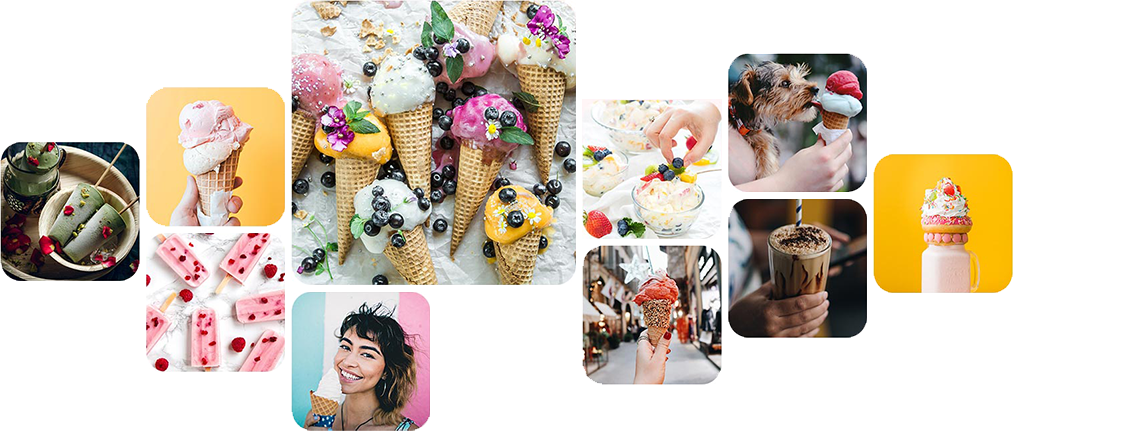
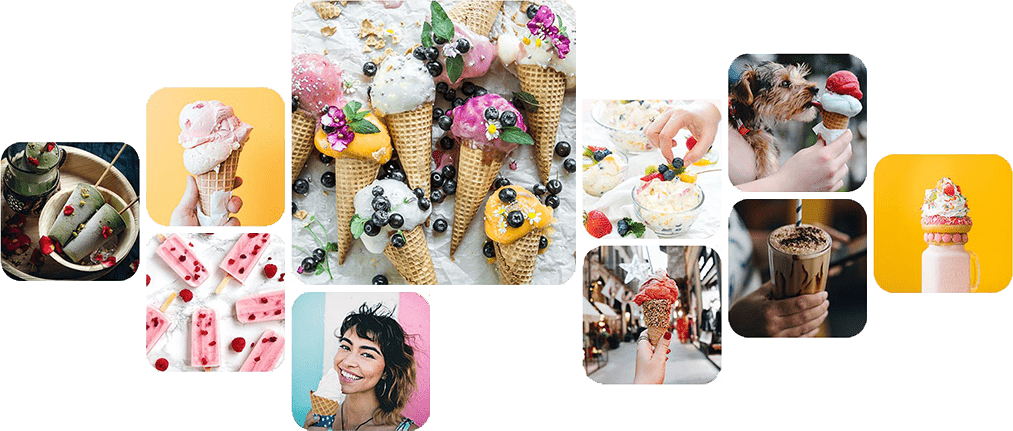
first end reviews

diff --git a/build/css/styles.css b/build/css/styles.css
@@ -388,18 +388,16 @@ img {
   min-width: 320px;
   margin: 0 auto; }
 
-/* Components */
+.collage {
+  margin-bottom: 195px; }
+  .collage__img {
+    display: block;
+    width: 80%;
+    object-fit: cover;
+    margin: 0 auto; }
+
 .reviews {
   text-align: center; }
-  .reviews::before {
-    content: '';
-    display: block;
-    width: 81.25%;
-    min-height: 110px;
-    max-height: 430px;
-    background: url(../images/reviews/collage.png) no-repeat;
-    background-size: cover;
-    margin: 0 auto 194px; }
   .reviews__blog {
     width: 78.125%;
     margin: 0 auto 20px;
@@ -410,7 +408,7 @@ img {
       margin: 0 auto;
       padding: 52px 0 33px; }
       .reviews__blog-box-text {
-        font: 500 13px DMSans, sans-serif;
+        font: 500 0.76em DMSans, sans-serif;
         color: #000000;
         line-height: 2.385;
         border-bottom: 1px solid #e1e1e1;
@@ -461,7 +459,7 @@ img {
 .reviews__title {
   margin: 0 auto 32px; }
   .reviews__title-text {
-    font: 400 13px DMSans, sans-serif;
+    font: 400 0.76em DMSans, sans-serif;
     color: #000000;
     text-transform: capitalize;
     margin-bottom: 32px; }
@@ -480,7 +478,7 @@ img {
     height: 16px;
     background-color: #e1e1e1;
     border-radius: 50%;
-    transition: 0.2s linear; }
+    transition: 200ms linear; }
     .reviews__btn-item:not(:last-child) {
       margin-right: 18px; }
     .reviews__btn-item:hover, .reviews__btn-item:focus {
@@ -488,6 +486,15 @@ img {
       border-radius: 0%;
       background: url(../images/reviews/home.png) no-repeat center;
       outline: none;
-      transition: 0.2s linear; }
+      transition: 200ms linear; }
 
[1 lines of base64/hex data omitted]
+@media screen and (min-width: 1200px) {
+  .container {
+    max-width: 1200px; } }
+
+@media screen and (min-width: 768px) {
+  .reviews__blog-box-text,
+  .reviews__title-text {
+    font-size: 1em; } }
+
[1 lines of base64/hex data omitted]

diff --git a/src/sass/components/_reviews.scss b/src/sass/components/_reviews.scss
@@ -1,18 +1,20 @@
+// Collage
+
+.collage {
+  margin-bottom: 195px;
+
+  &__img {
+    display: block;
+    width: 80%;
+    object-fit: cover;
+    margin: 0 auto;
+  }
+}
+
 // Reviews blog
 
 .reviews {
   text-align: center;
-
-  &::before {
-    content: '';
-    display: block;
-    width: 81.25%;
-    min-height: 110px;
-    max-height: 430px;
-    background: url(../images/reviews/collage.png) no-repeat;
-    background-size: cover;
-    margin: 0 auto 194px;
-  }
 
   &__blog {
     width: 78.125%;
@@ -20,26 +22,13 @@
     background-color: $color-gray-white;
     position: relative;
 
-    &::before {
-      // content: '';
-      // display: block;
-      // width: 85px;
-      // height: 85px;
-      // // background: url(../images/reviews/testimonials1.jpg);
-      // position: absolute;
-      // transform: translateX(50%);
-      // right: 50%;
-      // top: -115px;
-      // border-radius: 50%;
-    }
-
     &-box {
       width: 43.75%;
       margin: 0 auto;
       padding: 52px 0 33px;
 
       &-text {
-        font: 500 13px $primary-font-family;
+        font: 500 0.76em $primary-font-family;
         color: $primary-black-color;
         line-height: 2.385;
         border-bottom: 1px solid $color-grey;
@@ -105,7 +94,7 @@
   margin: 0 auto 32px;
 
   &-text {
-    font: 400 13px $primary-font-family;
+    font: 400 0.76em $primary-font-family;
     color: $primary-black-color;
     text-transform: capitalize;
     margin-bottom: 32px;
@@ -131,7 +120,7 @@
     height: 16px;
     background-color: $color-grey;
     border-radius: 50%;
-    @include transition;
+    transition: $primary-hover-transition;
 
     &:not(:last-child) {
       margin-right: 18px;
@@ -143,7 +132,7 @@
       border-radius: 0%;
       background: url(../images/reviews/home.png) no-repeat center;
       outline: none;
-      @include transition;
+      transition: $primary-hover-transition;
     }
   }
 }

diff --git a/build/index.html b/build/index.html
@@ -41,6 +41,17 @@
 
     <!-- Section reviews -->
     <section class="container">
+      <div class="collage">
+        <picture>
+          <source srcset="./images/reviews/collage@2x.png" />
+          <img
+            src="/src/images/reviews/collage.png"
+            class="collage__img"
+            alt="collage"
+          />
+        </picture>
+      </div>
+    
       <div class="reviews">
         <div class="reviews__blog reviews__card-one">
           <div class="reviews__blog-box">

diff --git a/src/html/reviews.html b/src/html/reviews.html
@@ -1,4 +1,15 @@
 <section class="container">
+  <div class="collage">
+    <picture>
+      <source srcset="./images/reviews/collage@2x.png" />
+      <img
+        src="/src/images/reviews/collage.png"
+        class="collage__img"
+        alt="collage"
+      />
+    </picture>
+  </div>
+
   <div class="reviews">
     <div class="reviews__blog reviews__card-one">
       <div class="reviews__blog-box">

diff --git a/src/sass/media/_reviews.scss b/src/sass/media/_reviews.scss
@@ -1,0 +1,12 @@
+@media screen and (min-width: 1200px) {
+  .container {
+    max-width: 1200px;
+  }
+}
+
+@media screen and (min-width: 768px) {
+  .reviews__blog-box-text,
+  .reviews__title-text {
+    font-size: 1em;
+  }
+}

diff --git a/src/sass/main.scss b/src/sass/main.scss
@@ -6,6 +6,10 @@
 @import 'fonts.scss';
 @import 'base.scss';
 
-/* Components */
+// Components
 
 @import './components/reviews.scss';
+
+// Media
+
+@import './media/reviews.scss';
